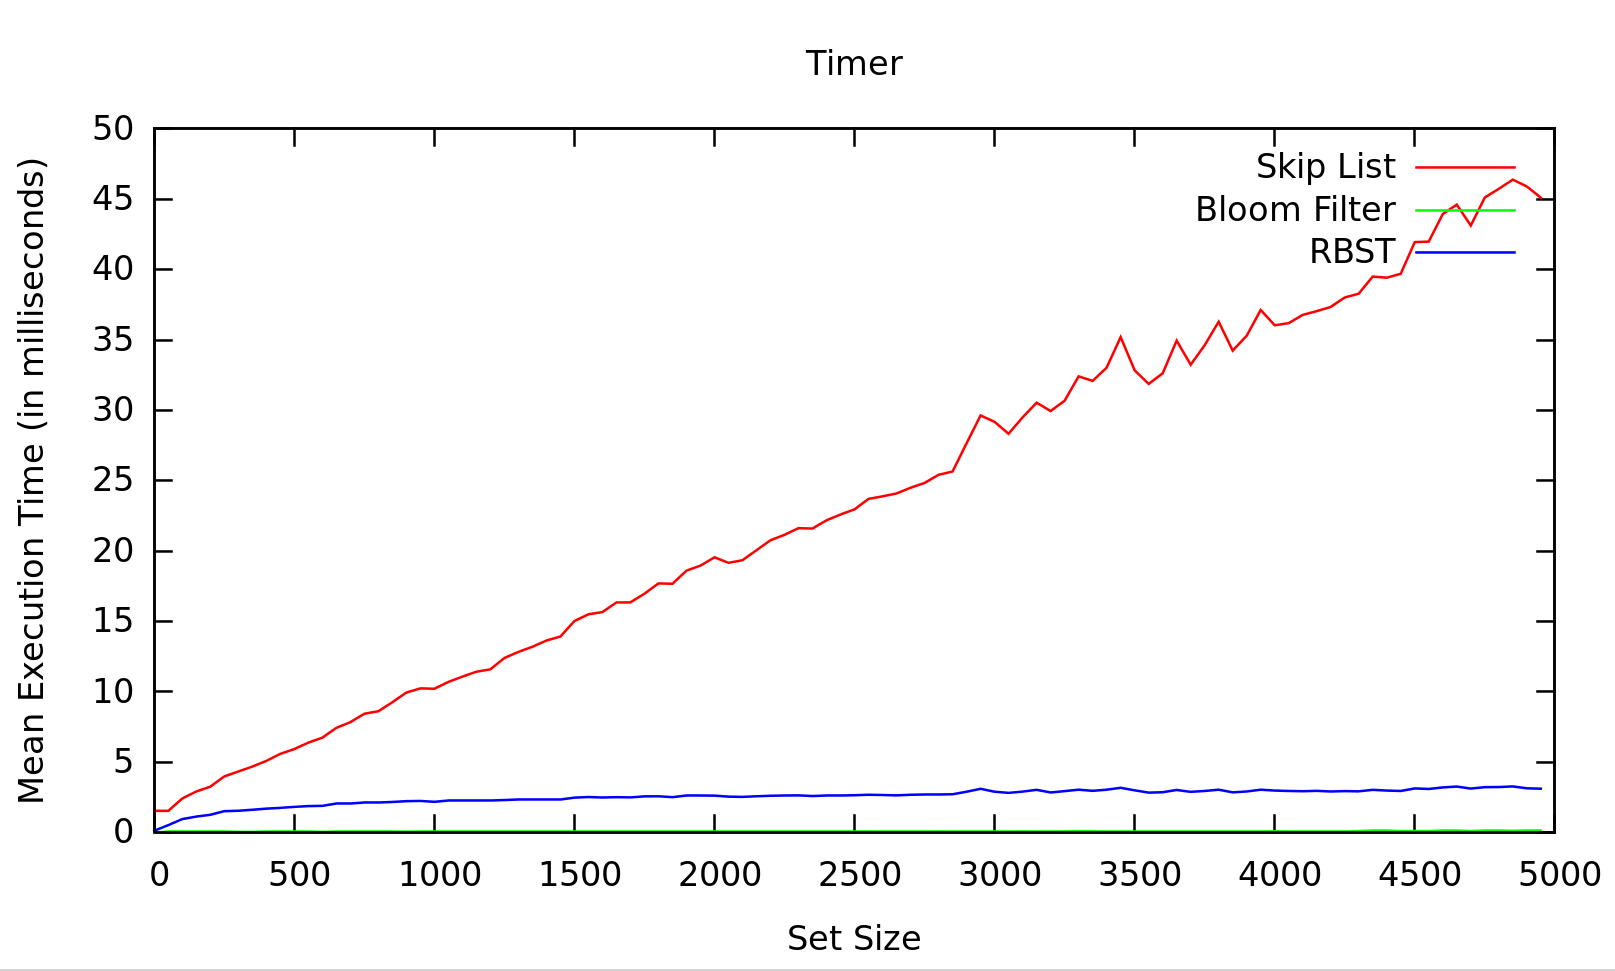
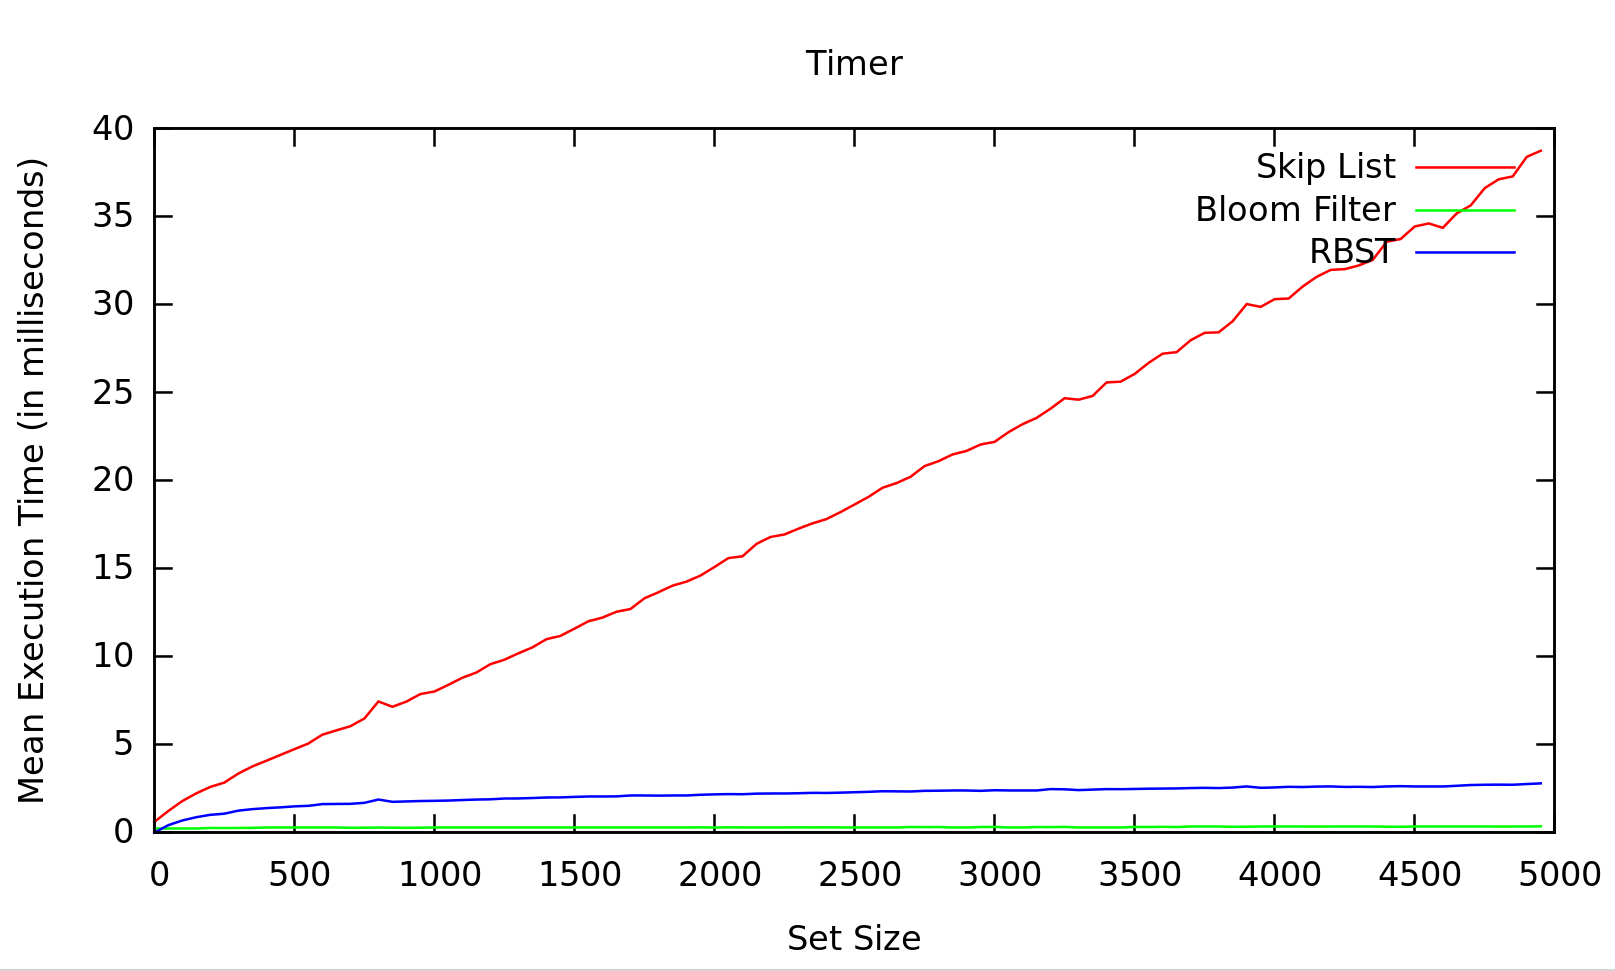
Updated graphs, work done on report

diff --git a/report.tex b/report.tex
@@ -1,7 +1,50 @@
-\documentclass[11pt]{report}
+\documentclass[11pt, notitlepage]{report}
+
+\usepackage[margin=2cm]{geometry}
+\usepackage{amsmath}
+\usepackage{graphicx}
+
+\newcommand{\BigO}[1]{\ensuremath{\operatorname{O}\bigl(#1\bigr)}}
+
+\DeclareGraphicsExtensions{.png}
+
+\setlength{\parindent}{0cm}
+
+\title{Randomised Algorithms CW1}
+\date{}
+\author{Owen Davies \and Charlie Hothersall}
 
 \begin{document}
 
+\maketitle
 
+\section*{Introduction}
+
+In this report we will examine the performance of our implementation of the Skip List, Bloom Filter and Random BInary Search Tree data structures. We will compare the average execution time and the number of comparisons performed for the insert, search and delete operations. The graphs drawn show the performance of the data structures averaged out over 500 repetitions.
+
+\section*{Insertion}
+
+\includegraphics[width=\linewidth]{img/Timer-Add}
+
+Here, the Bloom Filter lives up to it's impressive insertion time of \BigO{k}, with the time being constant (dictated by the 2 hash functions in the implementation) for any set size.\\
+
+The RBST performs very well also, with the mean execution time staying very low even for a large set size. We can see that the line matches a $\log$ n graph exactly - our implementation matches the the theoretical prediction of \BigO{\log n} (where n in the set size).\\
+
+
+\includegraphics[width=\linewidth]{img/Counter-Add}
+
+The same can be said for the number of comparisons as was said for the execution time. The Bloom Filter is constant for all set sizes as the only computation done is to hash the key and change the correct bits in the filter.\\
+
+The number of comparisons perfomed for RBST insert increases as expected; the bigger the size of the tree, the more recursive calls have to be made. This line still very much conforms to the theoretical complexity of $\log$ n, which makes perfect sense considering the shape of a BST.
+
+\section*{Deletion}
+
+\includegraphics[width=\linewidth]{img/Timer-Del}
+\includegraphics[width=\linewidth]{img/Counter-Del}
+
+\section*{Search}
+
+\includegraphics[width=\linewidth]{img/Timer-Find}
+\includegraphics[width=\linewidth]{img/Counter-Find}
 
 \end{document}
